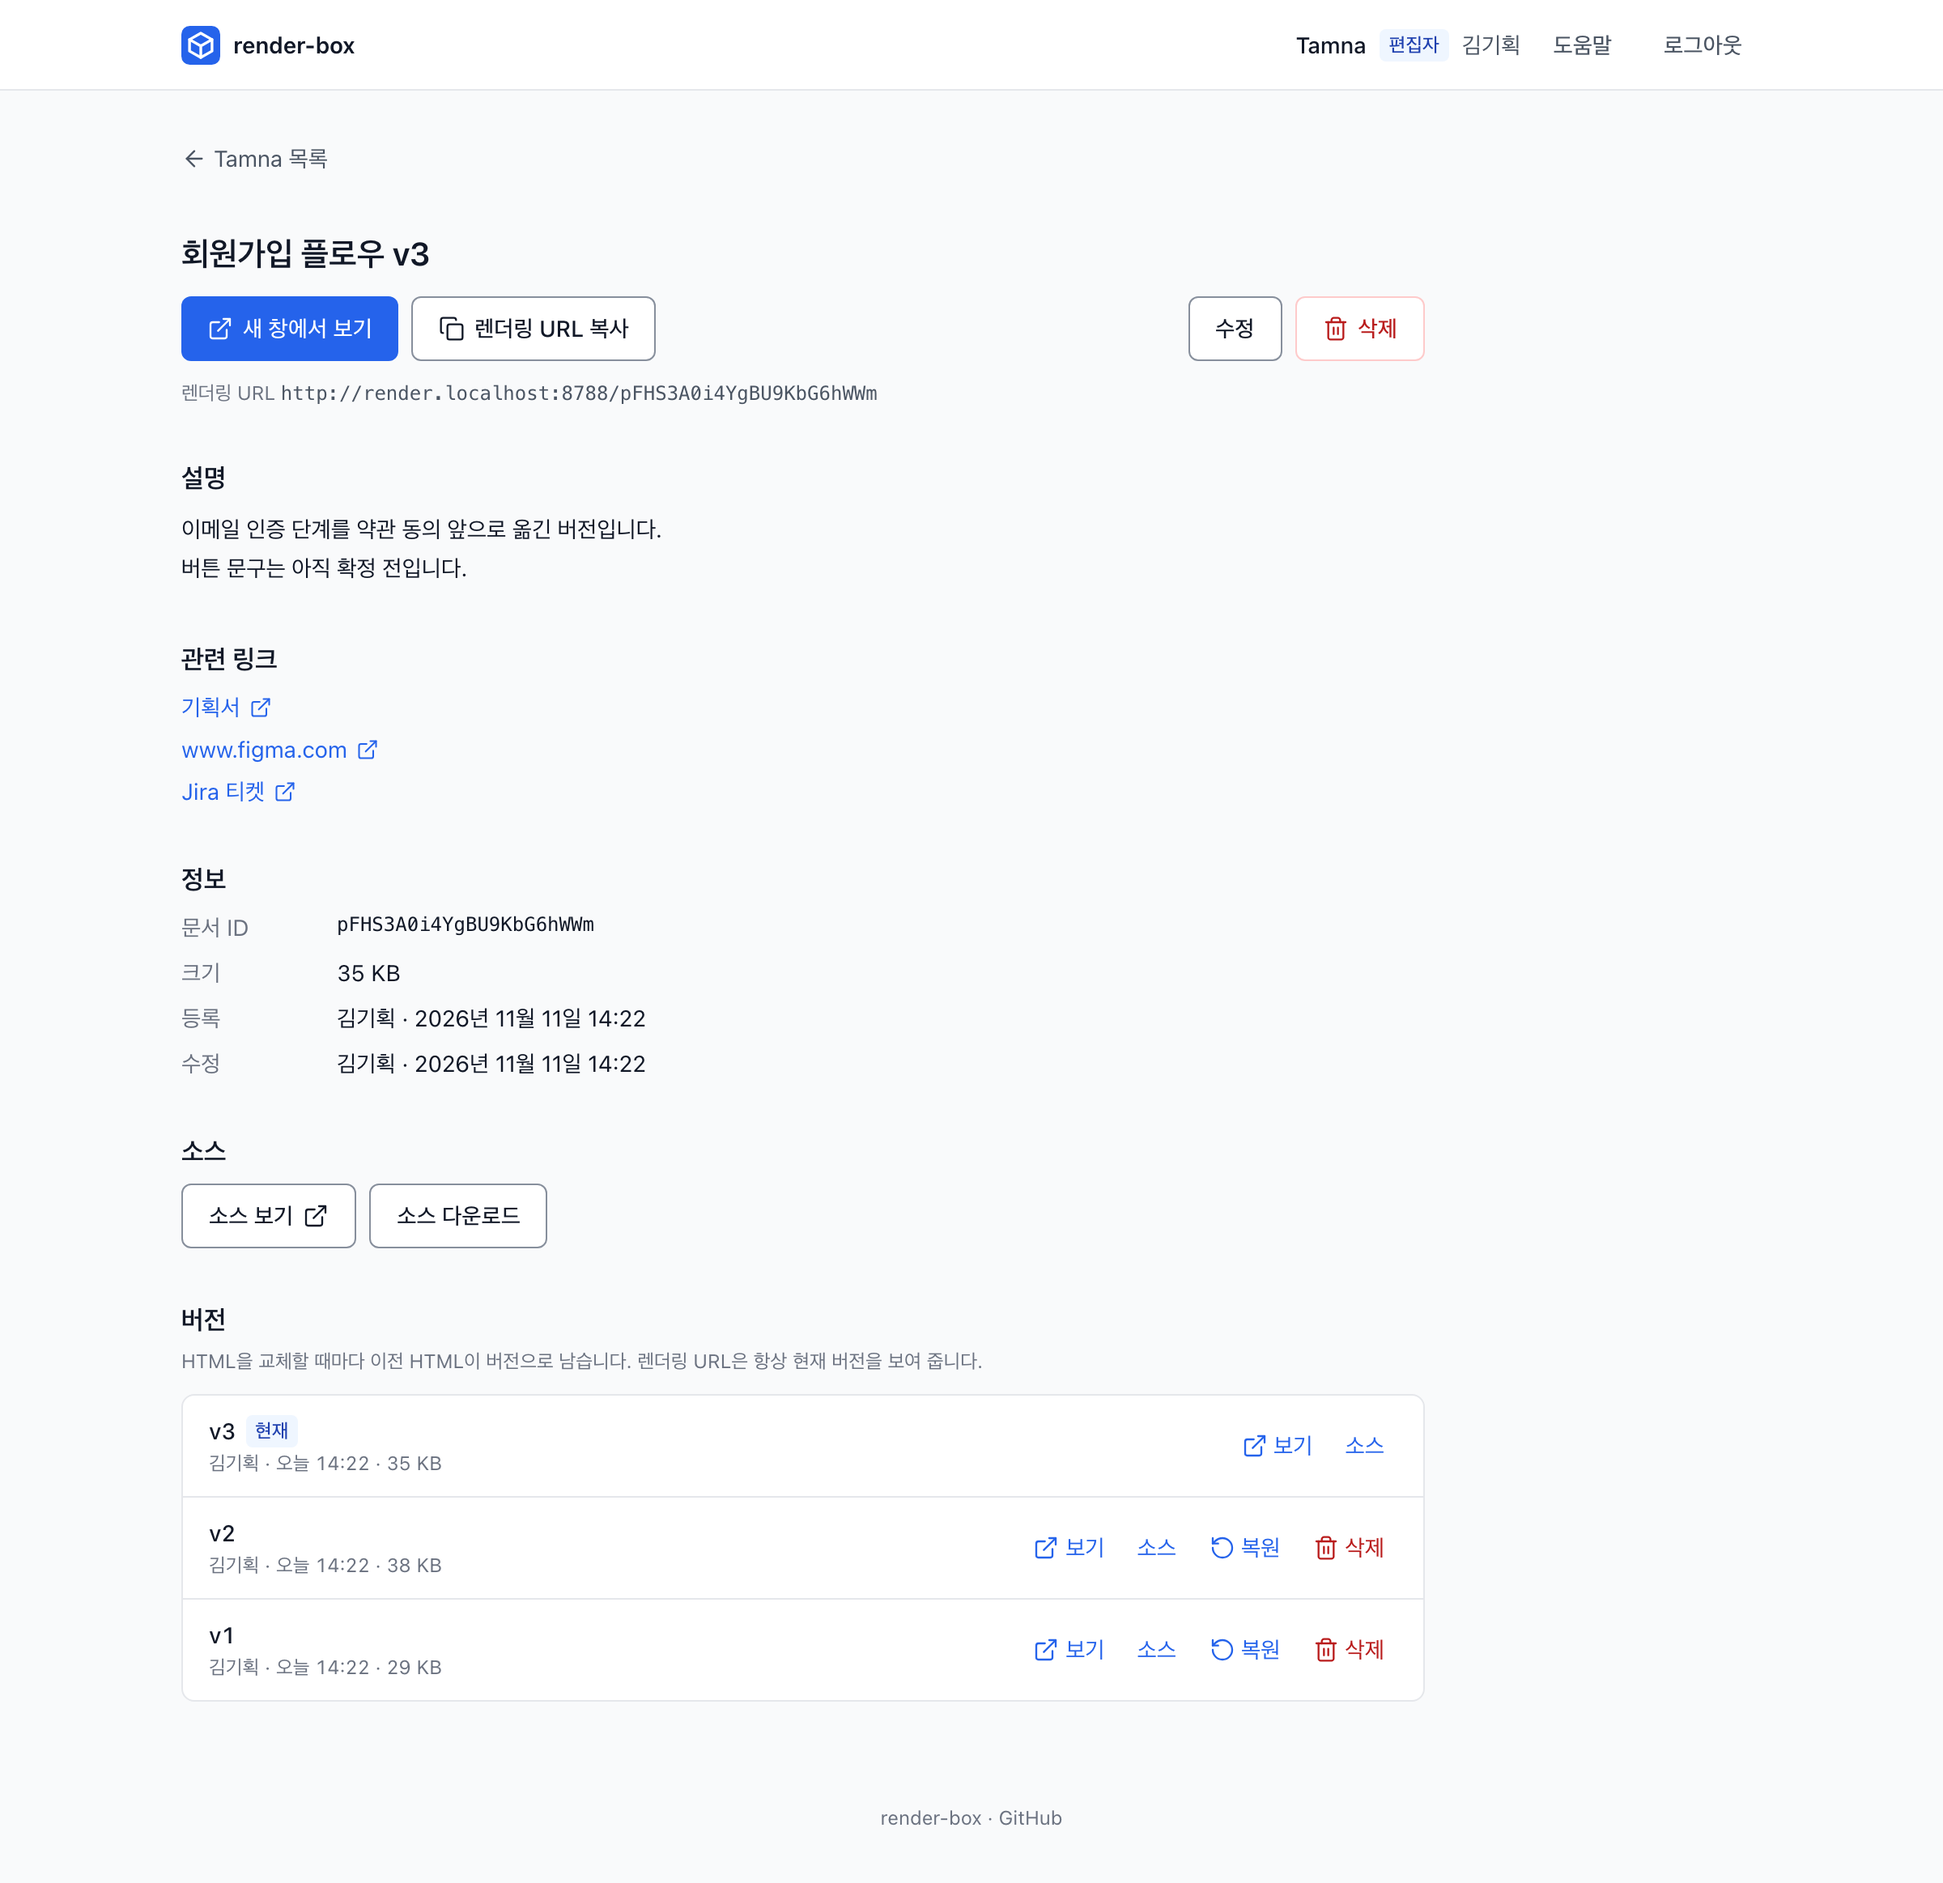
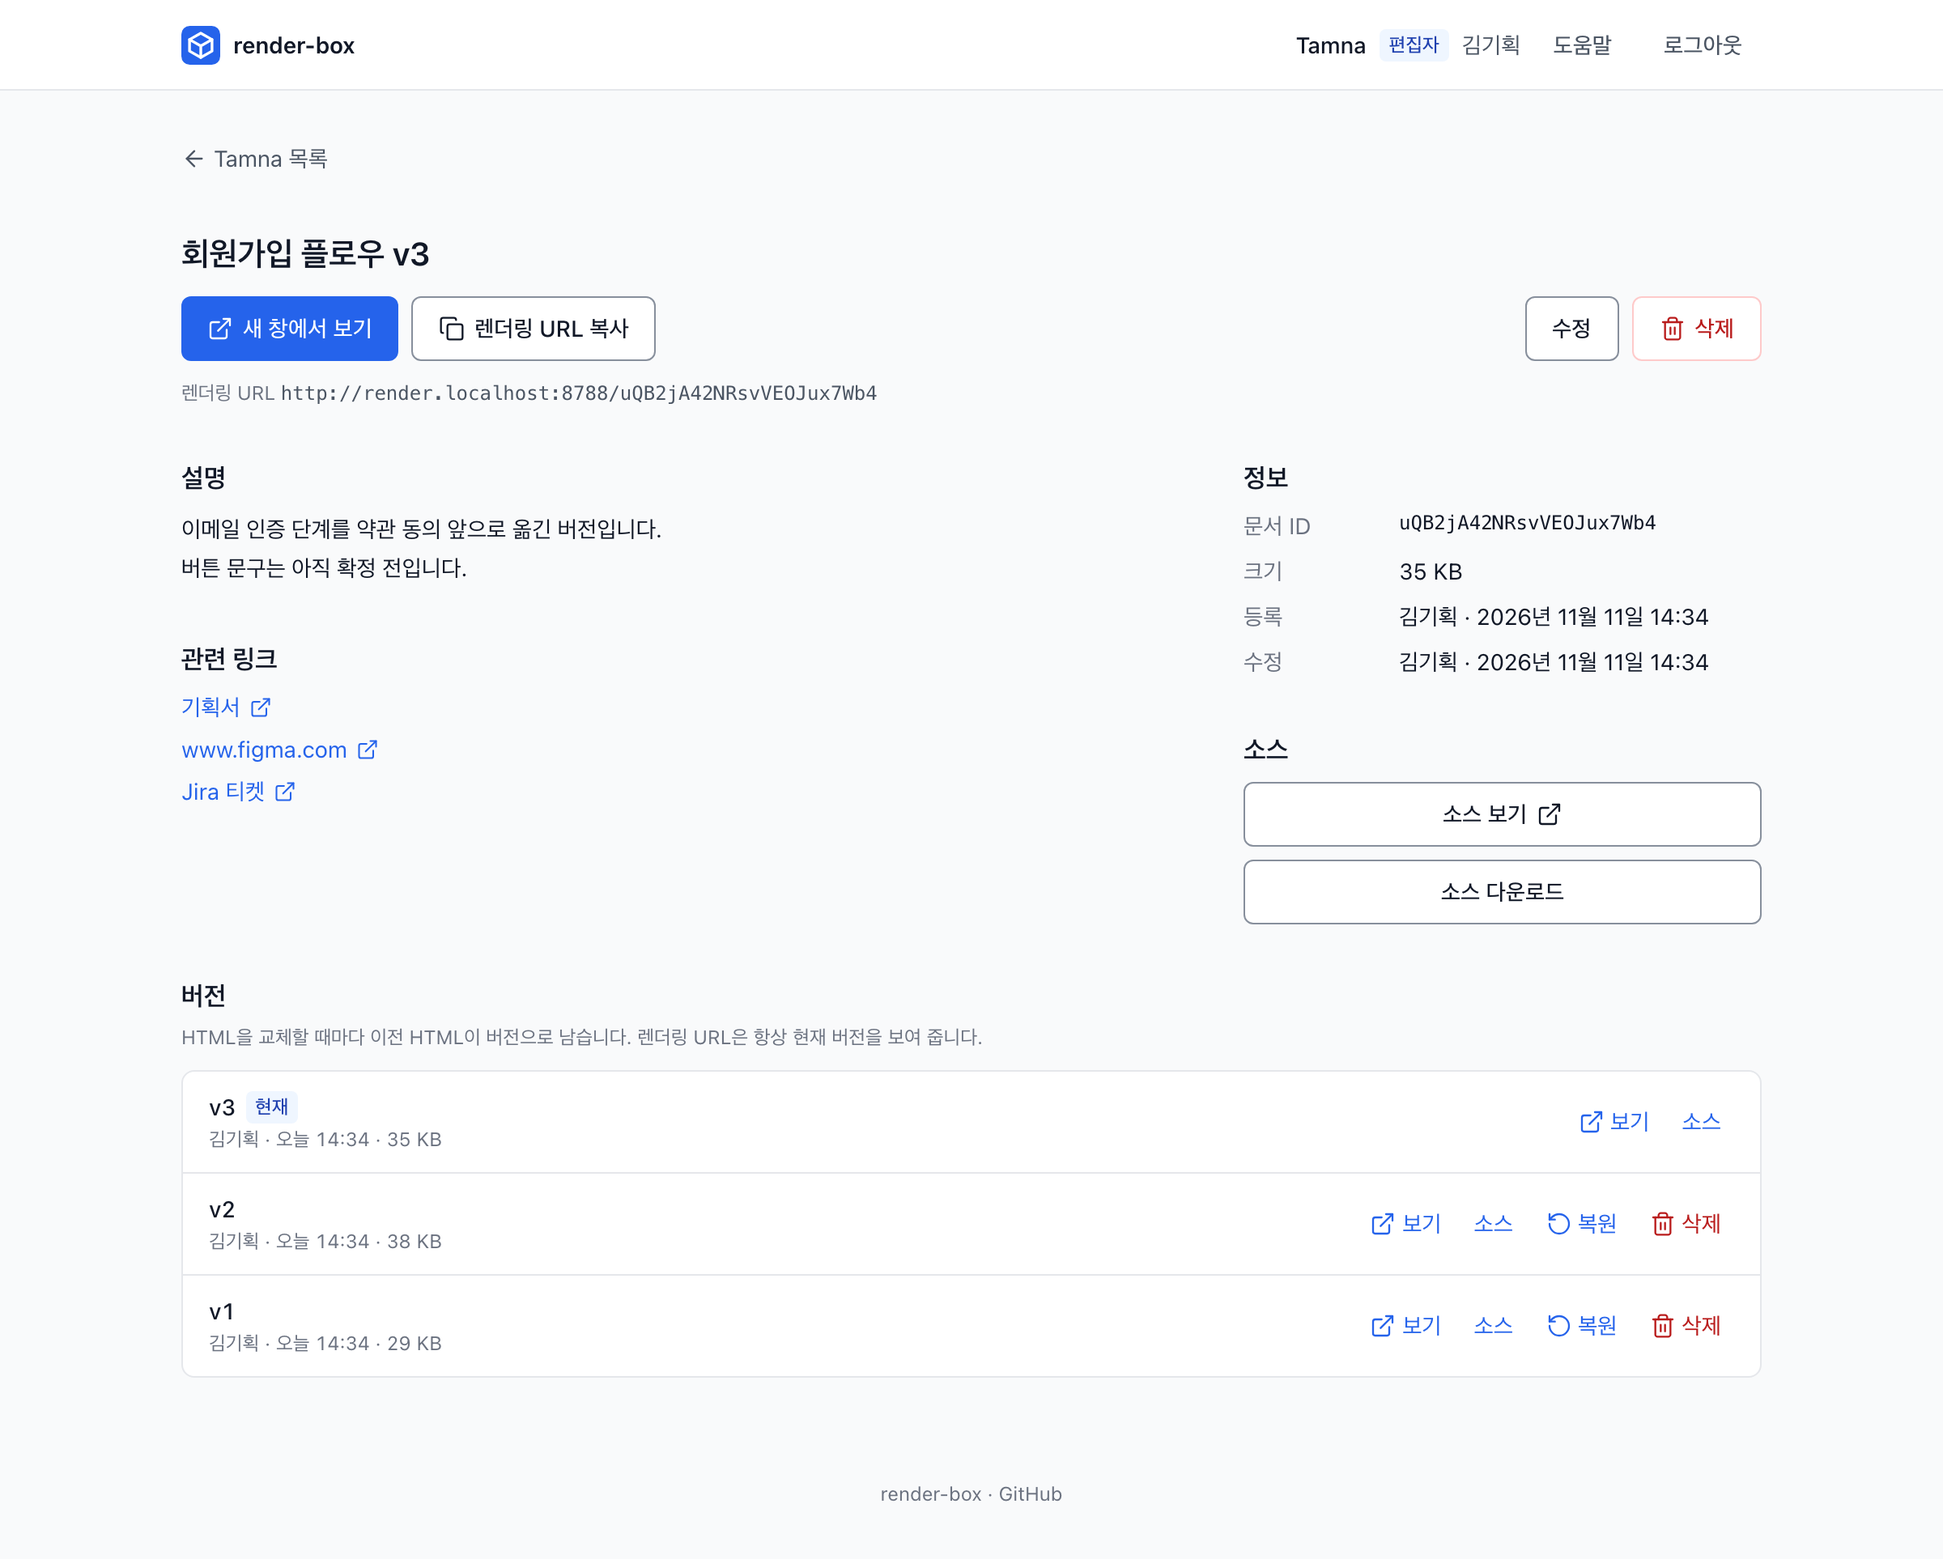
feat(admin): detail and storage use the full page width
- Detail: title, actions, render URL and versions span the page; between
  them, from lg, the description and links beside a 20rem sidebar with the
  facts and source buttons. Phones keep the old order.
- Storage: totals beside a labelled per-project column from lg; the
  previous-version list spans the page.
- UI guide and README screenshots updated.

diff --git a/apps/admin/src/views/storage.tsx b/apps/admin/src/views/storage.tsx
@@ -93,7 +93,7 @@ export function StoragePage({
   const level = storageLevel(usage);
   const current = Math.max(0, usage.used - usage.previous);
   return (
-    <AppPage title="저장 공간" user={user} project={project}>
+    <AppPage title="저장 공간" user={user} project={project} width="max-w-5xl">
       <div class="space-y-8">
         <div class="space-y-4">
           <BackLink href="/html">목록</BackLink>
@@ -107,6 +107,9 @@ export function StoragePage({
         <section class="space-y-3">
           <h1 class="text-xl font-semibold">저장 공간</h1>
           <div class={`${ui.card} space-y-3`}>
+            {/* From lg: totals beside the per-project usage. */}
+            <div class="grid gap-3 lg:grid-cols-2 lg:gap-8">
+            <div class="space-y-3">
             <p class="flex items-baseline justify-between gap-2">
               <span class="text-2xl font-semibold tabular-nums">{formatSize(usage.used)}</span>
               <span class="text-sm text-fg-muted tabular-nums">/ {formatSize(usage.limit)}</span>
@@ -118,8 +121,11 @@ export function StoragePage({
               <dt class="text-fg-subtle">이전 버전</dt>
               <dd class="text-right tabular-nums">{formatSize(usage.previous)}</dd>
             </dl>
+            </div>
             {byProject.length > 0 ? (
-              <dl class="grid grid-cols-[auto_1fr] gap-x-4 gap-y-1 border-t border-line pt-3 text-sm" aria-label="프로젝트별 사용량">
+              <div class="space-y-2 border-t border-line pt-3 lg:border-t-0 lg:border-l lg:pt-0 lg:pl-8">
+              <p class="text-xs font-medium text-fg-muted">프로젝트별</p>
+              <dl class="grid grid-cols-[auto_1fr] gap-x-4 gap-y-1 text-sm" aria-label="프로젝트별 사용량">
                 {byProject.map((p) => (
                   <>
                     <dt class="text-fg-subtle">{p.project.name}</dt>
@@ -127,7 +133,9 @@ export function StoragePage({
                   </>
                 ))}
               </dl>
+              </div>
             ) : null}
+            </div>
             <p class={ui.hint}>
               {level === "full"
                 ? "가득 차서 새로 올리기와 HTML 교체가 막혀 있습니다. 이전 버전이나 안 쓰는 문서를 지우면 다시 올릴 수 있습니다."

diff --git a/apps/admin/src/views/detail.tsx b/apps/admin/src/views/detail.tsx
@@ -91,7 +91,7 @@ export function DetailPage({
   const url = `${renderOrigin}/${doc.documentKey}`;
   const editor = project.role === "EDITOR";
   return (
-    <AppPage title={doc.title} user={user} project={project}>
+    <AppPage title={doc.title} user={user} project={project} width="max-w-5xl">
       <div class="space-y-8">
         <div class="space-y-4">
           <BackLink href={`/html?project=${encodeURIComponent(project.slug)}`}>{project.name} 목록</BackLink>
@@ -154,6 +154,10 @@ export function DetailPage({
           {saved ? null : <CopyFallback />}
         </section>
 
+        {/* From lg: the description and links beside a sidebar with the facts
+            and source; the versions span both. Phones keep the same order. */}
+        <div class="grid gap-8 lg:grid-cols-[minmax(0,1fr)_20rem]">
+        <div class="min-w-0 space-y-8">
         <section>
           <h2 class={ui.h2}>설명</h2>
           {doc.description ? (
@@ -186,7 +190,9 @@ export function DetailPage({
             <p class="mt-2 text-fg-subtle">관련 링크가 없습니다.</p>
           )}
         </section>
+        </div>
 
+        <div class="space-y-8">
         <section>
           <h2 class={ui.h2}>정보</h2>
           <dl class="mt-2 grid grid-cols-[5rem_1fr] gap-x-4 gap-y-2 text-sm">
@@ -207,7 +213,7 @@ export function DetailPage({
 
         <section>
           <h2 class={ui.h2}>소스</h2>
-          <div class="mt-2 flex flex-col gap-2 sm:flex-row">
+          <div class="mt-2 flex flex-col gap-2 sm:flex-row lg:flex-col">
             <a href={`/html/${doc.documentKey}/source`} target="_blank" rel="noopener" class={ui.secondary}>
               소스 보기
               <Icon name="external-link" />
@@ -217,6 +223,8 @@ export function DetailPage({
             </a>
           </div>
         </section>
+        </div>
+        </div>
 
         <Versions doc={doc} versions={versions} user={user} editor={editor} renderOrigin={renderOrigin} />
 

diff --git a/docs/ui.md b/docs/ui.md
@@ -161,7 +161,9 @@ Tailwind 기본 스케일만 쓰고, 굵기는 400/500/600 세 가지만 쓴다.
 
 - 목록: 바깥 폭 그대로
 - 등록·수정: 바깥 폭을 다 쓴다. `lg`(1024px)부터 두 칸 — 등록은 왼쪽 HTML·오른쪽 문서 정보, 수정은 왼쪽 문서 정보·오른쪽 HTML 교체. 그 아래 "안 되는 것" 안내와 버튼은 전체 폭. `lg` 미만은 한 줄로 쌓는다.
-- 상세·저장 공간: 바깥 폭 안에서 내용만 `max-w-3xl`, **왼쪽 정렬**(가운데로 모으지 않는다)
+- 상세: 바깥 폭을 다 쓴다. 제목·버튼·렌더링 URL과 버전 목록은 전체 폭, 그 사이는 `lg`부터 두 칸 — 왼쪽 설명·관련 링크, 오른쪽(20rem) 정보·소스(버튼 세로). `lg` 미만은 설명 → 링크 → 정보 → 소스 → 버전 순으로 쌓는다.
+- 저장 공간: 바깥 폭을 다 쓴다. 요약 카드는 `lg`부터 왼쪽 전체 사용량·막대, 오른쪽 "프로젝트별" 사용량(세로 구분선). 이전 버전 목록은 전체 폭.
+- 프로젝트 없음 안내: 바깥 폭 안에서 `max-w-3xl` 카드, 왼쪽 정렬.
 - 오류: 같은 바깥 폭 안에 `max-w-sm` 카드, 왼쪽 정렬
 - 로그인: 상단 바가 없는 화면이라 가운데 `max-w-sm` 카드
 - `html`에 `scrollbar-gutter: stable`: 스크롤바가 생기고 없어질 때 폭이 흔들리지 않게 자리를 늘 비워 둔다.
